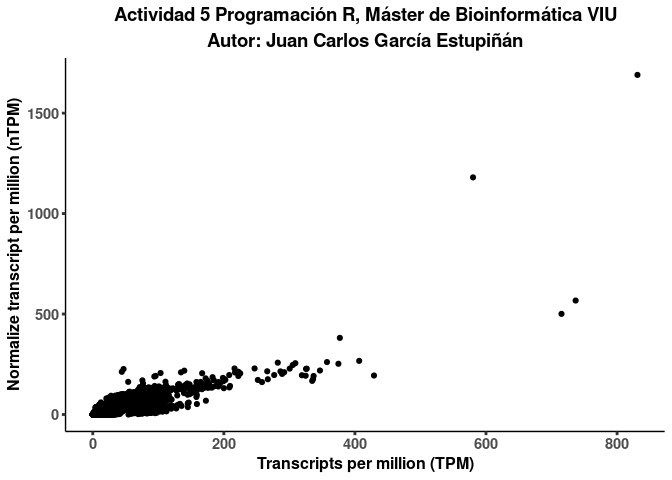
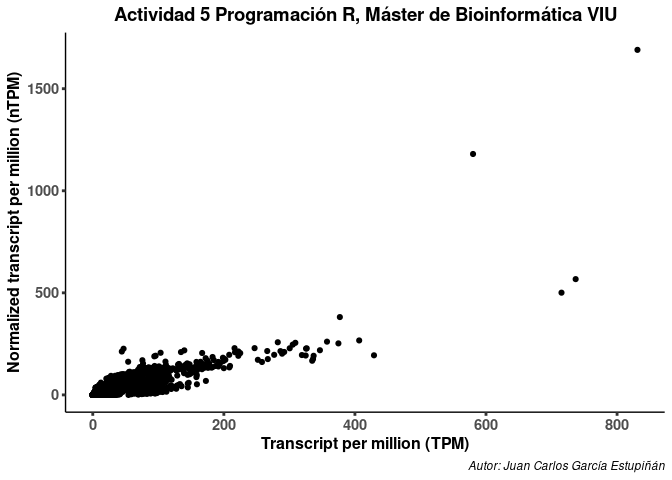
Cambios, ya está para enviar definitivamente la actividad de R

diff --git a/Actividad_R/documents/JuanCarlos_Garcia_Estupiñan.md b/Actividad_R/documents/JuanCarlos_Garcia_Estupiñan.md
@@ -30,9 +30,9 @@ invisible(lapply(packages, library, character.only = TRUE))
 ```
 
     ## ── Attaching packages ─────────────────────────────────────── tidyverse 1.3.2 ──
-    ## ✔ ggplot2 3.4.0      ✔ purrr   0.3.5 
+    ## ✔ ggplot2 3.4.0      ✔ purrr   1.0.0 
     ## ✔ tibble  3.1.8      ✔ dplyr   1.0.10
-    ## ✔ tidyr   1.2.1      ✔ stringr 1.4.1 
+    ## ✔ tidyr   1.2.1      ✔ stringr 1.5.0 
     ## ✔ readr   2.1.3      ✔ forcats 0.5.2 
     ## ── Conflicts ────────────────────────────────────────── tidyverse_conflicts() ──
     ## ✖ dplyr::filter() masks stats::filter()
@@ -119,12 +119,12 @@ lapply(df, typeof)
 rows <- nrow(df)
 cols <- ncol(df)
 
-vector_respuesta <- c(`n filas`=rows, `n columnas`=cols) 
+vector_respuesta <- c(nfilas=rows, ncolumnas=cols) 
 vector_respuesta
 ```
 
-    ##    n filas n columnas 
-    ##       8192          7
+    ##    nfilas ncolumnas 
+    ##      8192         7
 
 ## Pregunta 4.
 
@@ -135,20 +135,21 @@ de TPM para cada tipo de Tissue. Almacenar el resultado en **df1**.
 ``` r
 df1 <- df %>%
       group_by(Tissue) %>%
-      summarise(maximo=max(TPM),
+      summarise(media=mean(TPM),
+                maximo=max(TPM),
                 minimo=min(TPM))
 df1 %>% head()
 ```
 
-    ## # A tibble: 6 × 3
-    ##   Tissue                                        maximo minimo
-    ##   <chr>                                          <dbl>  <dbl>
-    ## 1 adipose tissue                                 282.     0  
-    ## 2 adrenal gland                                  108.     0  
-    ## 3 amygdala                                       104.     0.2
-    ## 4 angular gyrus                                   94.6    0.1
-    ## 5 angular gyrus (white matter)                   151.     0  
-    ## 6 anterior cingulate cortex, supragenual-dorsal   75      0.2
+    ## # A tibble: 6 × 4
+    ##   Tissue                                        media maximo minimo
+    ##   <chr>                                         <dbl>  <dbl>  <dbl>
+    ## 1 adipose tissue                                 34.6  282.     0  
+    ## 2 adrenal gland                                  24.8  108.     0  
+    ## 3 amygdala                                       21.3  104.     0.2
+    ## 4 angular gyrus                                  21.2   94.6    0.1
+    ## 5 angular gyrus (white matter)                   30.4  151.     0  
+    ## 6 anterior cingulate cortex, supragenual-dorsal  17.9   75      0.2
 
 ## Pregunta 5.
 
@@ -159,18 +160,16 @@ usando el dataframe **df**.
 df %>%
       ggplot(aes(TPM, nTPM)) +
       geom_point(size=1.5) +
-      # geom_smooth(method = "lm") +
       labs(
         title = "Actividad 5 Programación R, Máster de Bioinformática VIU",
-        subtitle = "Autor: Juan Carlos García Estupiñán",
-        x="Transcripts per million (TPM)",    # He estado buscando informacion sobre esto y creo que es a lo que se refiere con TPM
-        y="Normalize transcript per million (nTPM)"
+        caption = "Autor: Juan Carlos García Estupiñán",
+        x="Transcript per million (TPM)",    # He estado buscando informacion sobre esto y creo que es a lo que se refiere con TPM
+        y="Normalized transcript per million (nTPM)"
       ) +
       theme_classic() +
       theme(
         plot.title = element_text(face = "bold", size = 14, hjust = .5),
-        plot.subtitle = element_text(face = "bold", size = 14, hjust = .5),
-        # axis.line=element_line(size = 1),
+        plot.caption = element_text(face = "italic"),
         axis.ticks = element_line(size = 1),
         axis.title = element_text(face = "bold", size = 12),
         axis.text = element_text(face = "bold", size = 11)
@@ -209,7 +208,7 @@ plot_6_y_7 <- df %>%
   theme_classic() +
   theme(
     plot.title = element_text(face = "bold", size = 14, hjust = .5),
-    plot.subtitle = element_text(face = "italic", size = 11, hjust = .5),
+    plot.caption = element_text(face = "italic"),
     axis.line=element_line(size = 1),
     axis.ticks = element_line(size = 1),
     axis.title = element_text(face = "bold", size = 12),
@@ -230,9 +229,9 @@ plot_6_y_7 +
   geom_point(pch=21, color="black", size=1.5) +
   labs(
         title = "Actividad 5 Programación R, Máster de Bioinformática VIU",
-        subtitle = "Autor: Juan Carlos García Estupiñán",
-        x="Transcripts per million (TPM)",
-        y="Normalize transcripts per million (nTPM)"
+        caption = "Autor: Juan Carlos García Estupiñán",
+        x="Transcript per million (TPM)",
+        y="Normalized transcript per million (nTPM)"
       ) 
 ```
 
@@ -253,9 +252,9 @@ plot_6_y_7 +
   facet_grid(~Tissue, scales = "free") +
   labs(
         title = "Actividad 6 Programación R, Máster de Bioinformática VIU",
-        subtitle = "Autor: Juan Carlos García Estupiñán",
-        x="Transcripts per million (TPM)",
-        y="Normalize transcripts per million (nTPM)"
+        caption = "Autor: Juan Carlos García Estupiñán",
+        x="Transcript per million (TPM)",
+        y="Normalized transcript per million (nTPM)"
       ) +
   theme(
     strip.background = element_blank(),
